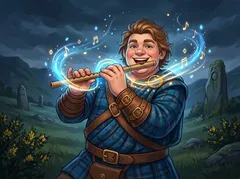
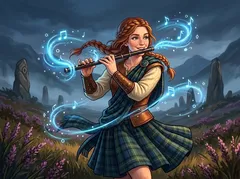
Dice Arena : note aiguë (diapason) et joueuse de flûte refaites (version 20261113-200544)

diff --git a/essais/dice-arena/prompts.html b/essais/dice-arena/prompts.html
@@ -16,8 +16,8 @@ pre{white-space:pre-wrap;background:#0d0b1f;padding:9px;border-radius:10px;font:
 button{font-size:1em;padding:9px 16px;border-radius:10px;border:0;background:#f5c542;color:#2b2117;font-weight:bold}
 .recus{columns:2;font-size:.85em;color:#9ff0b5}</style></head><body><main>
 <h1>Les images à faire pour la Guilde des Runes</h1><p class="sous">Une seule liste pour tout (menu, cartes, combats, Odyssée) · mise à jour le 13/11/2026</p>
-<div class="compte"><span>✅ Reçues : <b>137</b></span><span>⏳ Il reste : <b>54</b></span><span>Total : 191</span></div>
-<div class="maintenant"><h2>👉 À faire maintenant, dans cet ordre</h2><ol><li><a href="#i-flute" onclick="ouvre('flute')">Joueuse de flûte</a></li><li><a href="#i-aigue" onclick="ouvre('aigue')">Note aiguë</a></li><li><a href="#i-r-druidesse" onclick="ouvre('r-druidesse')">Expéditions · recrue Druidesse</a></li><li><a href="#i-b-necro" onclick="ouvre('b-necro')">Invasion · le Nécromancien du Vide</a></li><li><a href="#i-b-titanp" onclick="ouvre('b-titanp')">Invasion · le Titan primordial</a></li></ol>
+<div class="compte"><span>✅ Reçues : <b>139</b></span><span>⏳ Il reste : <b>52</b></span><span>Total : 191</span></div>
+<div class="maintenant"><h2>👉 À faire maintenant, dans cet ordre</h2><ol><li><a href="#i-r-druidesse" onclick="ouvre('r-druidesse')">Expéditions · recrue Druidesse</a></li><li><a href="#i-b-necro" onclick="ouvre('b-necro')">Invasion · le Nécromancien du Vide</a></li><li><a href="#i-b-titanp" onclick="ouvre('b-titanp')">Invasion · le Titan primordial</a></li><li><a href="#i-b-ignaros" onclick="ouvre('b-ignaros')">Invasion · Ignaros, le dragon ancien</a></li><li><a href="#i-b-kraken" onclick="ouvre('b-kraken')">Invasion · le Kraken des brumes</a></li></ol>
 <p style="margin:.5em 0 0;font-size:.9em">Le reste peut attendre : ce sont les 5 images qui débloquent le plus de choses dans le jeu.</p></div>
 <div class="regle"><b>Pour chaque image :</b><ul><li>une <b>nouvelle conversation Gemini</b> ;</li><li>joindre <b>une seule image</b> : celle indiquée dans le cadre jaune (le plus souvent le portrait de Gorm) ;</li>
 <li>coller le prompt, ne rien retoucher : si l’image ne va pas, on refait un prompt de zéro ;</li><li>m’envoyer l’image en me donnant le <b>nom du fichier</b> indiqué : je la range et elle passe en ✅ ici.</li></ul></div><details id="s-menu-communs"><summary>✅ Menu · les pièces communes <span class="n">3 / 3 reçues</span></summary>
@@ -142,12 +142,12 @@ button{font-size:1em;padding:9px 16px;border-radius:10px;border:0;background:#f5
 </div><div class="bloc ok" id="i-piege"><img src="prompts-recu/piege.webp?v=-703459213" alt=""><h3>✅ Piège à mâchoires</h3><div class="fichier">Nom du fichier à m'envoyer : <b>piege</b></div>
 </div><div class="bloc ok" id="i-detour"><img src="prompts-recu/detour.webp?v=-702510862" alt=""><h3>✅ Détour</h3><div class="fichier">Nom du fichier à m'envoyer : <b>detour</b></div>
 </div><div class="bloc ok" id="i-vol"><img src="prompts-recu/vol.webp?v=-703459216" alt=""><h3>✅ Vol de provisions</h3><div class="fichier">Nom du fichier à m'envoyer : <b>vol</b></div>
-</div></details></details><details id="s-cartes-gorm" open><summary>Cartes · illustrations · Gorm <span class="n">6 / 8 reçues</span></summary>
-<p class="expl">APRÈS la planche de l’essai.</p><div class="bloc" id="i-aigue"><h3>Note aiguë</h3><div class="fichier">Nom du fichier à m'envoyer : <b>aigue</b></div>
-<div class="note">💬 À REFAIRE (13/11 soir, remarque de l'utilisateur) : le sifflet était mal tenu ; nouvelle idée : un diapason de cristal frappé, sans main.</div><div class="joindre">📎 Joignez seulement le portrait de Gorm (<a href="portraits/gorm.webp" target="_blank">télécharger</a>).</div><pre id="p-aigue">Using the attached image only as a strict style reference (same digital painted style, same soft outlines, same warm main light with cool magical highlights, same level of detail), paint the ILLUSTRATION of a fantasy trading card, horizontal 4:3 format, edge to edge, with NO frame, NO border and NO card shape: only the picture. Subject: a slender crystal tuning fork standing on a mossy rock in the highlands, just struck and vibrating, a sharp bright note bursting from its prongs shaped like a lightning-blue arrow; NO hands, NO person, NO whistle. Highland palette: deep blues, stormy sky, warm leather and brass. DYNAMIC ACTION scene: the subject in motion, seen from a close and slightly low camera angle, dramatic lighting with bright magical glows and particles, strong contrast between the glowing subject and a darker background with depth. One clear subject, big in the picture. Child-friendly: no blood, nothing gory or scary. Generous readable shapes that stay clear at small size on a phone, visible brush texture, saturated but gentle colors. No text, no letters, no numbers, no logo, no signature, no watermark. Any magic glyph or rune mark must be a purely ABSTRACT shape (dot, small circle, tiny diamond, short curve); NEVER a letter of any alphabet (no Latin letter, no R, no Nordic runic letter), nowhere in the image.</pre><button onclick="copier('aigue', this)">Copier le prompt</button></div><div class="bloc" id="i-flute"><h3>Joueuse de flûte</h3><div class="fichier">Nom du fichier à m'envoyer : <b>flute</b></div>
-<div class="note">💬 À REFAIRE (13/11 soir, remarque de l'utilisateur) : la carte est « Joueuse » : une jeune femme ; prompt corrigé.</div><div class="joindre">📎 Joignez seulement le portrait de Gorm (<a href="portraits/gorm.webp" target="_blank">télécharger</a>).</div><pre id="p-flute">Using the attached image only as a strict style reference (same digital painted style, same soft outlines, same warm main light with cool magical highlights, same level of detail), paint the ILLUSTRATION of a fantasy trading card, horizontal 4:3 format, edge to edge, with NO frame, NO border and NO card shape: only the picture. Subject: a cheerful young WOMAN, a highland piper girl with braided hair, playing a wooden flute, musical notes swirling. Highland palette: deep blues, stormy sky, warm leather and brass. DYNAMIC ACTION scene: the subject in motion, seen from a close and slightly low camera angle, dramatic lighting with bright magical glows and particles, strong contrast between the glowing subject and a darker background with depth. One clear subject, big in the picture. Child-friendly: no blood, nothing gory or scary. Generous readable shapes that stay clear at small size on a phone, visible brush texture, saturated but gentle colors. No text, no letters, no numbers, no logo, no signature, no watermark. Any magic glyph or rune mark must be a purely ABSTRACT shape (dot, small circle, tiny diamond, short curve); NEVER a letter of any alphabet (no Latin letter, no R, no Nordic runic letter), nowhere in the image.</pre><button onclick="copier('flute', this)">Copier le prompt</button></div><details><summary style="font-size:.9em;color:#9ff0b5">Déjà reçues (6)</summary><div class="bloc ok" id="i-grave"><img src="prompts-recu/grave.webp?v=-700105461" alt=""><h3>✅ Note grave</h3><div class="fichier">Nom du fichier à m'envoyer : <b>grave</b></div>
+</div></details></details><details id="s-cartes-gorm"><summary>✅ Cartes · illustrations · Gorm <span class="n">8 / 8 reçues</span></summary>
+<p class="expl">APRÈS la planche de l’essai.</p><details><summary style="font-size:.9em;color:#9ff0b5">Déjà reçues (8)</summary><div class="bloc ok" id="i-grave"><img src="prompts-recu/grave.webp?v=-700105461" alt=""><h3>✅ Note grave</h3><div class="fichier">Nom du fichier à m'envoyer : <b>grave</b></div>
+</div><div class="bloc ok" id="i-aigue"><img src="prompts-recu/aigue.webp?v=-699586307" alt=""><h3>✅ Note aiguë</h3><div class="fichier">Nom du fichier à m'envoyer : <b>aigue</b></div>
 </div><div class="bloc ok" id="i-echo"><img src="prompts-recu/echo.webp?v=-700104503" alt=""><h3>✅ Écho</h3><div class="fichier">Nom du fichier à m'envoyer : <b>echo</b></div>
 </div><div class="bloc ok" id="i-tambour"><img src="prompts-recu/tambour.webp?v=-700104949" alt=""><h3>✅ Tambour de clan</h3><div class="fichier">Nom du fichier à m'envoyer : <b>tambour</b></div>
+</div><div class="bloc ok" id="i-flute"><img src="prompts-recu/flute.webp?v=-699586111" alt=""><h3>✅ Joueuse de flûte</h3><div class="fichier">Nom du fichier à m'envoyer : <b>flute</b></div>
 </div><div class="bloc ok" id="i-colosse"><img src="prompts-recu/colosse.webp?v=-700104287" alt=""><h3>✅ Colosse des collines</h3><div class="fichier">Nom du fichier à m'envoyer : <b>colosse</b></div>
 </div><div class="bloc ok" id="i-trancheV"><img src="prompts-recu/trancheV.webp?v=-699744146" alt=""><h3>✅ Tranche-vent</h3><div class="fichier">Nom du fichier à m'envoyer : <b>trancheV</b></div>
 </div><div class="bloc ok" id="i-cor"><img src="prompts-recu/cor.webp?v=-699743960" alt=""><h3>✅ Cor de ralliement</h3><div class="fichier">Nom du fichier à m'envoyer : <b>cor</b></div>

diff --git a/labo/guilde/prompts.html b/labo/guilde/prompts.html
@@ -16,8 +16,8 @@ pre{white-space:pre-wrap;background:#0d0b1f;padding:9px;border-radius:10px;font:
 button{font-size:1em;padding:9px 16px;border-radius:10px;border:0;background:#f5c542;color:#2b2117;font-weight:bold}
 .recus{columns:2;font-size:.85em;color:#9ff0b5}</style></head><body><main>
 <h1>Les images à faire pour la Guilde des Runes</h1><p class="sous">Une seule liste pour tout (menu, cartes, combats, Odyssée) · mise à jour le 13/11/2026</p>
-<div class="compte"><span>✅ Reçues : <b>137</b></span><span>⏳ Il reste : <b>54</b></span><span>Total : 191</span></div>
-<div class="maintenant"><h2>👉 À faire maintenant, dans cet ordre</h2><ol><li><a href="#i-flute" onclick="ouvre('flute')">Joueuse de flûte</a></li><li><a href="#i-aigue" onclick="ouvre('aigue')">Note aiguë</a></li><li><a href="#i-r-druidesse" onclick="ouvre('r-druidesse')">Expéditions · recrue Druidesse</a></li><li><a href="#i-b-necro" onclick="ouvre('b-necro')">Invasion · le Nécromancien du Vide</a></li><li><a href="#i-b-titanp" onclick="ouvre('b-titanp')">Invasion · le Titan primordial</a></li></ol>
+<div class="compte"><span>✅ Reçues : <b>139</b></span><span>⏳ Il reste : <b>52</b></span><span>Total : 191</span></div>
+<div class="maintenant"><h2>👉 À faire maintenant, dans cet ordre</h2><ol><li><a href="#i-r-druidesse" onclick="ouvre('r-druidesse')">Expéditions · recrue Druidesse</a></li><li><a href="#i-b-necro" onclick="ouvre('b-necro')">Invasion · le Nécromancien du Vide</a></li><li><a href="#i-b-titanp" onclick="ouvre('b-titanp')">Invasion · le Titan primordial</a></li><li><a href="#i-b-ignaros" onclick="ouvre('b-ignaros')">Invasion · Ignaros, le dragon ancien</a></li><li><a href="#i-b-kraken" onclick="ouvre('b-kraken')">Invasion · le Kraken des brumes</a></li></ol>
 <p style="margin:.5em 0 0;font-size:.9em">Le reste peut attendre : ce sont les 5 images qui débloquent le plus de choses dans le jeu.</p></div>
 <div class="regle"><b>Pour chaque image :</b><ul><li>une <b>nouvelle conversation Gemini</b> ;</li><li>joindre <b>une seule image</b> : celle indiquée dans le cadre jaune (le plus souvent le portrait de Gorm) ;</li>
 <li>coller le prompt, ne rien retoucher : si l’image ne va pas, on refait un prompt de zéro ;</li><li>m’envoyer l’image en me donnant le <b>nom du fichier</b> indiqué : je la range et elle passe en ✅ ici.</li></ul></div><details id="s-menu-communs"><summary>✅ Menu · les pièces communes <span class="n">3 / 3 reçues</span></summary>
@@ -142,12 +142,12 @@ button{font-size:1em;padding:9px 16px;border-radius:10px;border:0;background:#f5
 </div><div class="bloc ok" id="i-piege"><img src="prompts-recu/piege.webp?v=-703459213" alt=""><h3>✅ Piège à mâchoires</h3><div class="fichier">Nom du fichier à m'envoyer : <b>piege</b></div>
 </div><div class="bloc ok" id="i-detour"><img src="prompts-recu/detour.webp?v=-702510862" alt=""><h3>✅ Détour</h3><div class="fichier">Nom du fichier à m'envoyer : <b>detour</b></div>
 </div><div class="bloc ok" id="i-vol"><img src="prompts-recu/vol.webp?v=-703459216" alt=""><h3>✅ Vol de provisions</h3><div class="fichier">Nom du fichier à m'envoyer : <b>vol</b></div>
-</div></details></details><details id="s-cartes-gorm" open><summary>Cartes · illustrations · Gorm <span class="n">6 / 8 reçues</span></summary>
-<p class="expl">APRÈS la planche de l’essai.</p><div class="bloc" id="i-aigue"><h3>Note aiguë</h3><div class="fichier">Nom du fichier à m'envoyer : <b>aigue</b></div>
-<div class="note">💬 À REFAIRE (13/11 soir, remarque de l'utilisateur) : le sifflet était mal tenu ; nouvelle idée : un diapason de cristal frappé, sans main.</div><div class="joindre">📎 Joignez seulement le portrait de Gorm (<a href="portraits/gorm.webp" target="_blank">télécharger</a>).</div><pre id="p-aigue">Using the attached image only as a strict style reference (same digital painted style, same soft outlines, same warm main light with cool magical highlights, same level of detail), paint the ILLUSTRATION of a fantasy trading card, horizontal 4:3 format, edge to edge, with NO frame, NO border and NO card shape: only the picture. Subject: a slender crystal tuning fork standing on a mossy rock in the highlands, just struck and vibrating, a sharp bright note bursting from its prongs shaped like a lightning-blue arrow; NO hands, NO person, NO whistle. Highland palette: deep blues, stormy sky, warm leather and brass. DYNAMIC ACTION scene: the subject in motion, seen from a close and slightly low camera angle, dramatic lighting with bright magical glows and particles, strong contrast between the glowing subject and a darker background with depth. One clear subject, big in the picture. Child-friendly: no blood, nothing gory or scary. Generous readable shapes that stay clear at small size on a phone, visible brush texture, saturated but gentle colors. No text, no letters, no numbers, no logo, no signature, no watermark. Any magic glyph or rune mark must be a purely ABSTRACT shape (dot, small circle, tiny diamond, short curve); NEVER a letter of any alphabet (no Latin letter, no R, no Nordic runic letter), nowhere in the image.</pre><button onclick="copier('aigue', this)">Copier le prompt</button></div><div class="bloc" id="i-flute"><h3>Joueuse de flûte</h3><div class="fichier">Nom du fichier à m'envoyer : <b>flute</b></div>
-<div class="note">💬 À REFAIRE (13/11 soir, remarque de l'utilisateur) : la carte est « Joueuse » : une jeune femme ; prompt corrigé.</div><div class="joindre">📎 Joignez seulement le portrait de Gorm (<a href="portraits/gorm.webp" target="_blank">télécharger</a>).</div><pre id="p-flute">Using the attached image only as a strict style reference (same digital painted style, same soft outlines, same warm main light with cool magical highlights, same level of detail), paint the ILLUSTRATION of a fantasy trading card, horizontal 4:3 format, edge to edge, with NO frame, NO border and NO card shape: only the picture. Subject: a cheerful young WOMAN, a highland piper girl with braided hair, playing a wooden flute, musical notes swirling. Highland palette: deep blues, stormy sky, warm leather and brass. DYNAMIC ACTION scene: the subject in motion, seen from a close and slightly low camera angle, dramatic lighting with bright magical glows and particles, strong contrast between the glowing subject and a darker background with depth. One clear subject, big in the picture. Child-friendly: no blood, nothing gory or scary. Generous readable shapes that stay clear at small size on a phone, visible brush texture, saturated but gentle colors. No text, no letters, no numbers, no logo, no signature, no watermark. Any magic glyph or rune mark must be a purely ABSTRACT shape (dot, small circle, tiny diamond, short curve); NEVER a letter of any alphabet (no Latin letter, no R, no Nordic runic letter), nowhere in the image.</pre><button onclick="copier('flute', this)">Copier le prompt</button></div><details><summary style="font-size:.9em;color:#9ff0b5">Déjà reçues (6)</summary><div class="bloc ok" id="i-grave"><img src="prompts-recu/grave.webp?v=-700105461" alt=""><h3>✅ Note grave</h3><div class="fichier">Nom du fichier à m'envoyer : <b>grave</b></div>
+</div></details></details><details id="s-cartes-gorm"><summary>✅ Cartes · illustrations · Gorm <span class="n">8 / 8 reçues</span></summary>
+<p class="expl">APRÈS la planche de l’essai.</p><details><summary style="font-size:.9em;color:#9ff0b5">Déjà reçues (8)</summary><div class="bloc ok" id="i-grave"><img src="prompts-recu/grave.webp?v=-700105461" alt=""><h3>✅ Note grave</h3><div class="fichier">Nom du fichier à m'envoyer : <b>grave</b></div>
+</div><div class="bloc ok" id="i-aigue"><img src="prompts-recu/aigue.webp?v=-699586307" alt=""><h3>✅ Note aiguë</h3><div class="fichier">Nom du fichier à m'envoyer : <b>aigue</b></div>
 </div><div class="bloc ok" id="i-echo"><img src="prompts-recu/echo.webp?v=-700104503" alt=""><h3>✅ Écho</h3><div class="fichier">Nom du fichier à m'envoyer : <b>echo</b></div>
 </div><div class="bloc ok" id="i-tambour"><img src="prompts-recu/tambour.webp?v=-700104949" alt=""><h3>✅ Tambour de clan</h3><div class="fichier">Nom du fichier à m'envoyer : <b>tambour</b></div>
+</div><div class="bloc ok" id="i-flute"><img src="prompts-recu/flute.webp?v=-699586111" alt=""><h3>✅ Joueuse de flûte</h3><div class="fichier">Nom du fichier à m'envoyer : <b>flute</b></div>
 </div><div class="bloc ok" id="i-colosse"><img src="prompts-recu/colosse.webp?v=-700104287" alt=""><h3>✅ Colosse des collines</h3><div class="fichier">Nom du fichier à m'envoyer : <b>colosse</b></div>
 </div><div class="bloc ok" id="i-trancheV"><img src="prompts-recu/trancheV.webp?v=-699744146" alt=""><h3>✅ Tranche-vent</h3><div class="fichier">Nom du fichier à m'envoyer : <b>trancheV</b></div>
 </div><div class="bloc ok" id="i-cor"><img src="prompts-recu/cor.webp?v=-699743960" alt=""><h3>✅ Cor de ralliement</h3><div class="fichier">Nom du fichier à m'envoyer : <b>cor</b></div>

diff --git a/essais/dice-arena/duel.html b/essais/dice-arena/duel.html
@@ -609,7 +609,7 @@
 <script>
 // Version de la page : à chaque mise en ligne, outils/publier.sh change VERSION et version.txt.
 // Si le téléphone a gardé une ancienne page en mémoire, elle se recharge toute seule sur la nouvelle.
-const VERSION = '20261113-200306';
+const VERSION = '20261113-200544';
 fetch('version.txt?t=' + Date.now(), { cache:'no-store' }).then(r => r.ok ? r.text() : '').then(v => {
   v = (v || '').trim();
   if (v && v !== VERSION && !sessionStorage.getItem('recharge-' + v)) { sessionStorage.setItem('recharge-' + v, '1'); location.replace('duel.html?v=' + v); }
@@ -628,10 +628,10 @@ function verifieVersion() {
 setInterval(verifieVersion, 120000);
 document.addEventListener('visibilitychange', () => { if (!document.hidden) verifieVersion(); });
 </script>
-<script src="cartes.js?v=20261113-200306"></script>
-<script src="donnees.js?v=20261113-200306"></script>
-<script src="odyssee.js?v=20261113-200306"></script>
-<script src="chronique.js?v=20261113-200306"></script>
+<script src="cartes.js?v=20261113-200544"></script>
+<script src="donnees.js?v=20261113-200544"></script>
+<script src="odyssee.js?v=20261113-200544"></script>
+<script src="chronique.js?v=20261113-200544"></script>
 <script>
 // =============================================================================================== moteur
 let S = null;
@@ -1941,13 +1941,13 @@ async function joueFX() {
 // toucher l'écran pendant les animations les accélère
 document.addEventListener('pointerdown', () => { if (fxOn) fxVite = .3; }, true);
 </script>
-<script src="pantheon.js?v=20261113-200306"></script>
-<script src="tuto.js?v=20261113-200306"></script>
-<script src="deux.js?v=20261113-200306"></script>
-<script src="invasion.js?v=20261113-200306"></script>
-<script src="enigme-table.js?v=20261113-200306"></script>
-<script src="forge.js?v=20261113-200306"></script>
-<script src="semaine.js?v=20261113-200306"></script>
-<script src="enigme.js?v=20261113-200306"></script>
+<script src="pantheon.js?v=20261113-200544"></script>
+<script src="tuto.js?v=20261113-200544"></script>
+<script src="deux.js?v=20261113-200544"></script>
+<script src="invasion.js?v=20261113-200544"></script>
+<script src="enigme-table.js?v=20261113-200544"></script>
+<script src="forge.js?v=20261113-200544"></script>
+<script src="semaine.js?v=20261113-200544"></script>
+<script src="enigme.js?v=20261113-200544"></script>
 </body>
 </html>

diff --git a/labo/guilde/duel.html b/labo/guilde/duel.html
@@ -609,7 +609,7 @@
 <script>
 // Version de la page : à chaque mise en ligne, outils/publier.sh change VERSION et version.txt.
 // Si le téléphone a gardé une ancienne page en mémoire, elle se recharge toute seule sur la nouvelle.
-const VERSION = '20261113-200306';
+const VERSION = '20261113-200544';
 fetch('version.txt?t=' + Date.now(), { cache:'no-store' }).then(r => r.ok ? r.text() : '').then(v => {
   v = (v || '').trim();
   if (v && v !== VERSION && !sessionStorage.getItem('recharge-' + v)) { sessionStorage.setItem('recharge-' + v, '1'); location.replace('duel.html?v=' + v); }
@@ -628,10 +628,10 @@ function verifieVersion() {
 setInterval(verifieVersion, 120000);
 document.addEventListener('visibilitychange', () => { if (!document.hidden) verifieVersion(); });
 </script>
-<script src="cartes.js?v=20261113-200306"></script>
-<script src="donnees.js?v=20261113-200306"></script>
-<script src="odyssee.js?v=20261113-200306"></script>
-<script src="chronique.js?v=20261113-200306"></script>
+<script src="cartes.js?v=20261113-200544"></script>
+<script src="donnees.js?v=20261113-200544"></script>
+<script src="odyssee.js?v=20261113-200544"></script>
+<script src="chronique.js?v=20261113-200544"></script>
 <script>
 // =============================================================================================== moteur
 let S = null;
@@ -1941,13 +1941,13 @@ async function joueFX() {
 // toucher l'écran pendant les animations les accélère
 document.addEventListener('pointerdown', () => { if (fxOn) fxVite = .3; }, true);
 </script>
-<script src="pantheon.js?v=20261113-200306"></script>
-<script src="tuto.js?v=20261113-200306"></script>
-<script src="deux.js?v=20261113-200306"></script>
-<script src="invasion.js?v=20261113-200306"></script>
-<script src="enigme-table.js?v=20261113-200306"></script>
-<script src="forge.js?v=20261113-200306"></script>
-<script src="semaine.js?v=20261113-200306"></script>
-<script src="enigme.js?v=20261113-200306"></script>
+<script src="pantheon.js?v=20261113-200544"></script>
+<script src="tuto.js?v=20261113-200544"></script>
+<script src="deux.js?v=20261113-200544"></script>
+<script src="invasion.js?v=20261113-200544"></script>
+<script src="enigme-table.js?v=20261113-200544"></script>
+<script src="forge.js?v=20261113-200544"></script>
+<script src="semaine.js?v=20261113-200544"></script>
+<script src="enigme.js?v=20261113-200544"></script>
 </body>
 </html>

diff --git a/essais/dice-arena/menu.html b/essais/dice-arena/menu.html
@@ -8,7 +8,7 @@
 <title>La Guilde des Runes</title>
 <script>
 // Même mécanisme que le Duel : une nouvelle version = rechargement tout seul à l'ouverture (publier.sh change VERSION).
-const VERSION = '20261113-200306';
+const VERSION = '20261113-200544';
 fetch('version.txt?t=' + Date.now(), { cache:'no-store' }).then(r => r.ok ? r.text() : '').then(v => {
   v = (v || '').trim();
   if (v && v !== VERSION && !sessionStorage.getItem('recharge-menu-' + v)) { sessionStorage.setItem('recharge-menu-' + v, '1'); location.replace('menu.html?v=' + v); }
@@ -175,8 +175,8 @@ fetch('version.txt?t=' + Date.now(), { cache:'no-store' }).then(r => r.ok ? r.te
 </div>
 <div id="flash"></div>
 
-<script src="semaine.js?v=20261113-200306"></script>
-<script src="donnees.js?v=20261113-200306"></script>
+<script src="semaine.js?v=20261113-200544"></script>
+<script src="donnees.js?v=20261113-200544"></script>
 <script>
 // ciel étoilé + runes du portail (symboles, pas des lettres), aux couleurs des héros
 const ciel = document.getElementById('ciel');

diff --git a/labo/guilde/menu.html b/labo/guilde/menu.html
@@ -8,7 +8,7 @@
 <title>La Guilde des Runes</title>
 <script>
 // Même mécanisme que le Duel : une nouvelle version = rechargement tout seul à l'ouverture (publier.sh change VERSION).
-const VERSION = '20261113-200306';
+const VERSION = '20261113-200544';
 fetch('version.txt?t=' + Date.now(), { cache:'no-store' }).then(r => r.ok ? r.text() : '').then(v => {
   v = (v || '').trim();
   if (v && v !== VERSION && !sessionStorage.getItem('recharge-menu-' + v)) { sessionStorage.setItem('recharge-menu-' + v, '1'); location.replace('menu.html?v=' + v); }
@@ -175,8 +175,8 @@ fetch('version.txt?t=' + Date.now(), { cache:'no-store' }).then(r => r.ok ? r.te
 </div>
 <div id="flash"></div>
 
-<script src="semaine.js?v=20261113-200306"></script>
-<script src="donnees.js?v=20261113-200306"></script>
+<script src="semaine.js?v=20261113-200544"></script>
+<script src="donnees.js?v=20261113-200544"></script>
 <script>
 // ciel étoilé + runes du portail (symboles, pas des lettres), aux couleurs des héros
 const ciel = document.getElementById('ciel');

diff --git a/essais/dice-arena/odyssee.html b/essais/dice-arena/odyssee.html
@@ -107,11 +107,11 @@ function verifieVersion() {
 setInterval(verifieVersion, 120000);
 document.addEventListener('visibilitychange', () => { if (!document.hidden) verifieVersion(); });
 </script>
-<script src="cartes.js?v=20261113-200306"></script>
-<script src="donnees.js?v=20261113-200306"></script>
-<script src="odyssee.js?v=20261113-200306"></script>
-<script src="pantheon.js?v=20261113-200306"></script>
-<script src="chronique.js?v=20261113-200306"></script>
+<script src="cartes.js?v=20261113-200544"></script>
+<script src="donnees.js?v=20261113-200544"></script>
+<script src="odyssee.js?v=20261113-200544"></script>
+<script src="pantheon.js?v=20261113-200544"></script>
+<script src="chronique.js?v=20261113-200544"></script>
 <script>
 // le moteur du Duel n'est pas chargé ici : les cartes de l'Odyssée appellent degats/soin seulement en combat (dans duel.html)
 const log = () => {}, degats = () => {}, soin = () => {}, altere = () => {}, invoque = () => {}, adv = () => ({}), fin = () => {};

diff --git a/labo/guilde/odyssee.html b/labo/guilde/odyssee.html
@@ -107,11 +107,11 @@ function verifieVersion() {
 setInterval(verifieVersion, 120000);
 document.addEventListener('visibilitychange', () => { if (!document.hidden) verifieVersion(); });
 </script>
-<script src="cartes.js?v=20261113-200306"></script>
-<script src="donnees.js?v=20261113-200306"></script>
-<script src="odyssee.js?v=20261113-200306"></script>
-<script src="pantheon.js?v=20261113-200306"></script>
-<script src="chronique.js?v=20261113-200306"></script>
+<script src="cartes.js?v=20261113-200544"></script>
+<script src="donnees.js?v=20261113-200544"></script>
+<script src="odyssee.js?v=20261113-200544"></script>
+<script src="pantheon.js?v=20261113-200544"></script>
+<script src="chronique.js?v=20261113-200544"></script>
 <script>
 // le moteur du Duel n'est pas chargé ici : les cartes de l'Odyssée appellent degats/soin seulement en combat (dans duel.html)
 const log = () => {}, degats = () => {}, soin = () => {}, altere = () => {}, invoque = () => {}, adv = () => ({}), fin = () => {};

diff --git a/essais/dice-arena/essai-cartes.html b/essais/dice-arena/essai-cartes.html
@@ -1,7 +1,7 @@
 <!doctype html><html lang="fr"><head><meta charset="utf-8"><meta name="viewport" content="width=device-width, initial-scale=1"><meta name="robots" content="noindex">
 <title>Essai des cartes</title><style>body{margin:0;background:#15132b;color:#fff;font-family:Georgia,serif}.g{display:flex;flex-wrap:wrap;gap:14px;justify-content:center;padding:16px}</style></head><body>
 <div class="g" id="g"></div>
-<script src="donnees.js"></script><script src="cartes.js?v=20261113-200306"></script>
+<script src="donnees.js"></script><script src="cartes.js?v=20261113-200544"></script>
 <script>document.head.insertAdjacentHTML('beforeend', '<style>' + CSS_CARTE + '</style>');
 const ks = (new URLSearchParams(location.search).get('k') || 'seve,racines,faon,lien').split(',');
 document.getElementById('g').innerHTML = ks.map(k => carteGuilde(k, { heros:'pip', art:'portraits/pip.webp', w:+(new URLSearchParams(location.search).get('w') || 216) })).join('');</script></body></html>

diff --git a/labo/guilde/essai-cartes.html b/labo/guilde/essai-cartes.html
@@ -1,7 +1,7 @@
 <!doctype html><html lang="fr"><head><meta charset="utf-8"><meta name="viewport" content="width=device-width, initial-scale=1"><meta name="robots" content="noindex">
 <title>Essai des cartes</title><style>body{margin:0;background:#15132b;color:#fff;font-family:Georgia,serif}.g{display:flex;flex-wrap:wrap;gap:14px;justify-content:center;padding:16px}</style></head><body>
 <div class="g" id="g"></div>
-<script src="donnees.js"></script><script src="cartes.js?v=20261113-200306"></script>
+<script src="donnees.js"></script><script src="cartes.js?v=20261113-200544"></script>
 <script>document.head.insertAdjacentHTML('beforeend', '<style>' + CSS_CARTE + '</style>');
 const ks = (new URLSearchParams(location.search).get('k') || 'seve,racines,faon,lien').split(',');
 document.getElementById('g').innerHTML = ks.map(k => carteGuilde(k, { heros:'pip', art:'portraits/pip.webp', w:+(new URLSearchParams(location.search).get('w') || 216) })).join('');</script></body></html>

diff --git a/essais/dice-arena/expedition.html b/essais/dice-arena/expedition.html
@@ -86,11 +86,11 @@
 <body>
 <div id="app"></div>
 <div id="fen"></div>
-<script src="cartes.js?v=20261113-200306"></script>
-<script src="donnees.js?v=20261113-200306"></script>
-<script src="odyssee.js?v=20261113-200306"></script>
-<script src="chronique.js?v=20261113-200306"></script>
-<script src="expedition-moteur.js?v=20261113-200306"></script>
-<script src="expedition-ecran.js?v=20261113-200306"></script>
+<script src="cartes.js?v=20261113-200544"></script>
+<script src="donnees.js?v=20261113-200544"></script>
+<script src="odyssee.js?v=20261113-200544"></script>
+<script src="chronique.js?v=20261113-200544"></script>
+<script src="expedition-moteur.js?v=20261113-200544"></script>
+<script src="expedition-ecran.js?v=20261113-200544"></script>
 </body>
 </html>

diff --git a/labo/guilde/expedition.html b/labo/guilde/expedition.html
@@ -86,11 +86,11 @@
 <body>
 <div id="app"></div>
 <div id="fen"></div>
-<script src="cartes.js?v=20261113-200306"></script>
-<script src="donnees.js?v=20261113-200306"></script>
-<script src="odyssee.js?v=20261113-200306"></script>
-<script src="chronique.js?v=20261113-200306"></script>
-<script src="expedition-moteur.js?v=20261113-200306"></script>
-<script src="expedition-ecran.js?v=20261113-200306"></script>
+<script src="cartes.js?v=20261113-200544"></script>
+<script src="donnees.js?v=20261113-200544"></script>
+<script src="odyssee.js?v=20261113-200544"></script>
+<script src="chronique.js?v=20261113-200544"></script>
+<script src="expedition-moteur.js?v=20261113-200544"></script>
+<script src="expedition-ecran.js?v=20261113-200544"></script>
 </body>
 </html>
